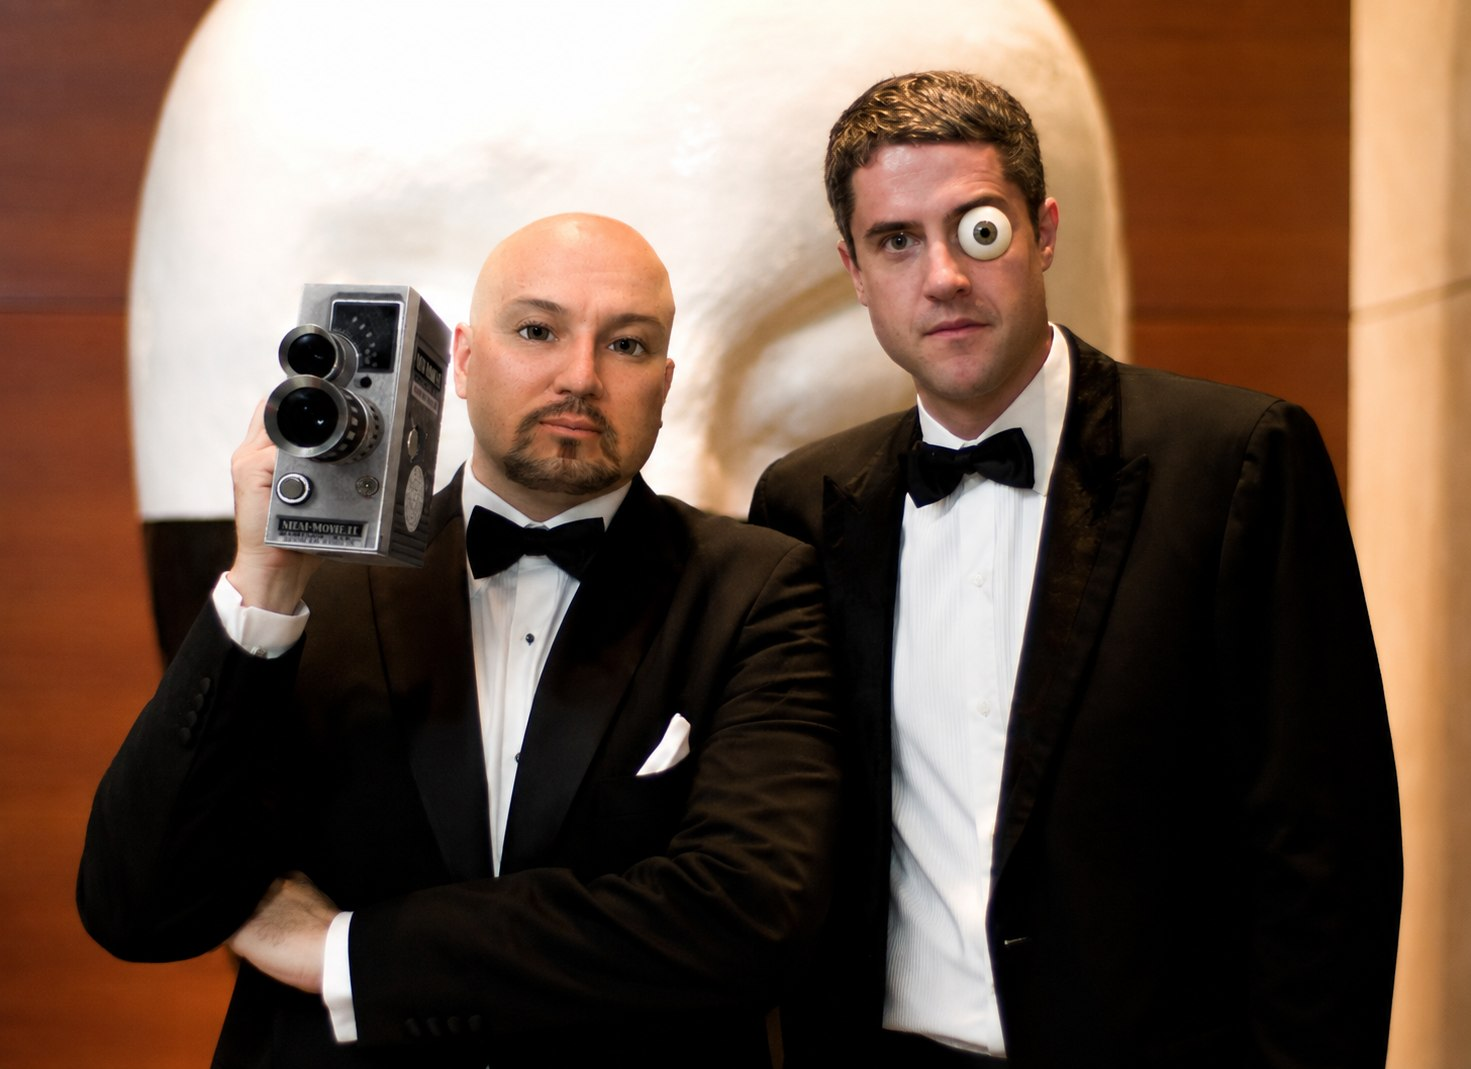
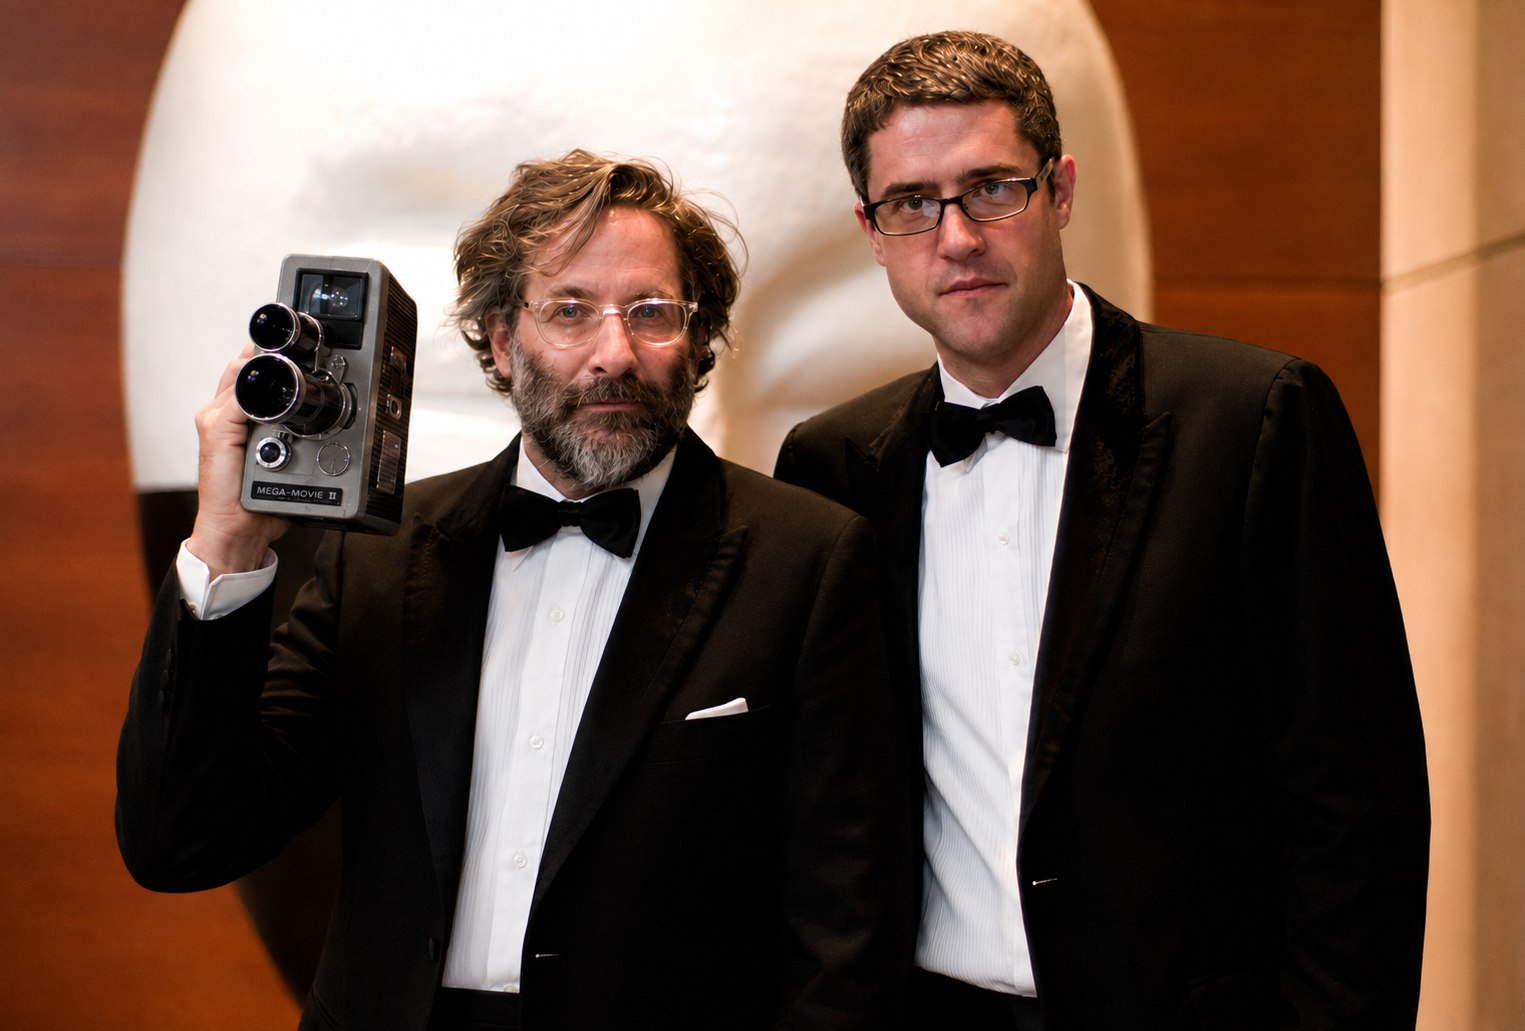
New Creator letter photograph: the tuxedos with the Mega-Movie II

diff --git a/index.html b/index.html
@@ -392,7 +392,7 @@ footer a{color:var(--ink-3)}
         </div>
         <div class="plate-frame">
           <span class="tag">2007 – 2026</span>
-          <img src="images/creator-merged.jpg" alt="The 2007 tuxedo photograph with Molotov Alva’s face and Orhalla Zander’s eye grafted on">
+          <img src="images/creator-merged.jpg" alt="Douglas Gayeton and Reuben Steiger in tuxedos, 2007, Gayeton holding a Mega-Movie II camera">
         </div>
         <span class="go">Read the letter →</span>
       </a>
